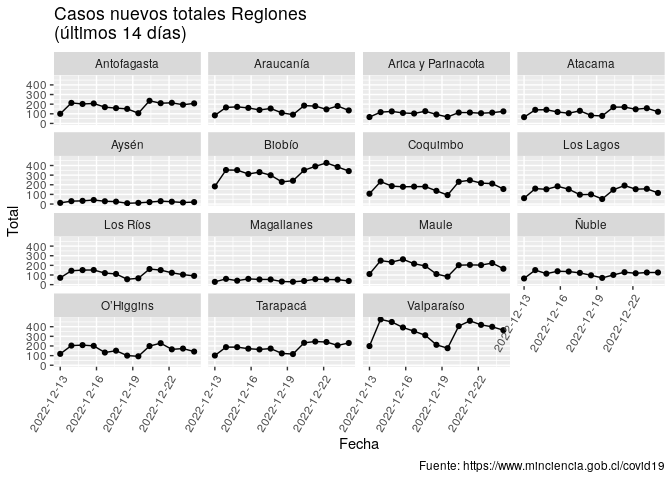
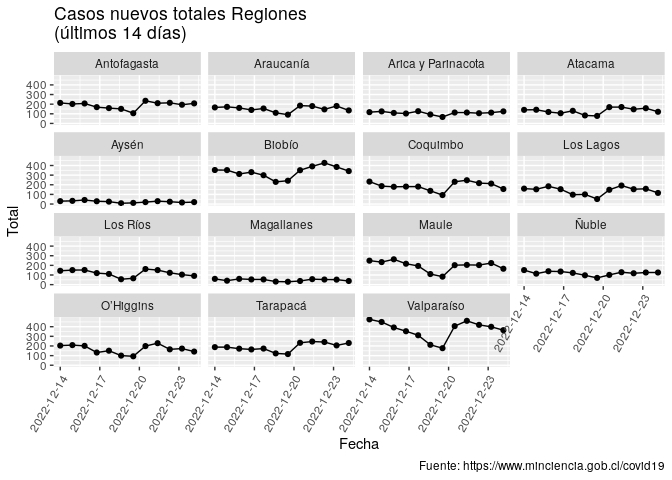
Re-build Rmarkdown files

diff --git a/README.md b/README.md
@@ -3,7 +3,7 @@
 
 Ejemplo de uso de total\_casos de COVID recopilados por el Ministerio de
 Ciencia de Chile <https://www.minciencia.gob.cl/covid19>. Última
-actualización: 2022-12-26
+actualización: 2022-12-27
 
 ## Visualización desde el comienzo de la pandemia
 
